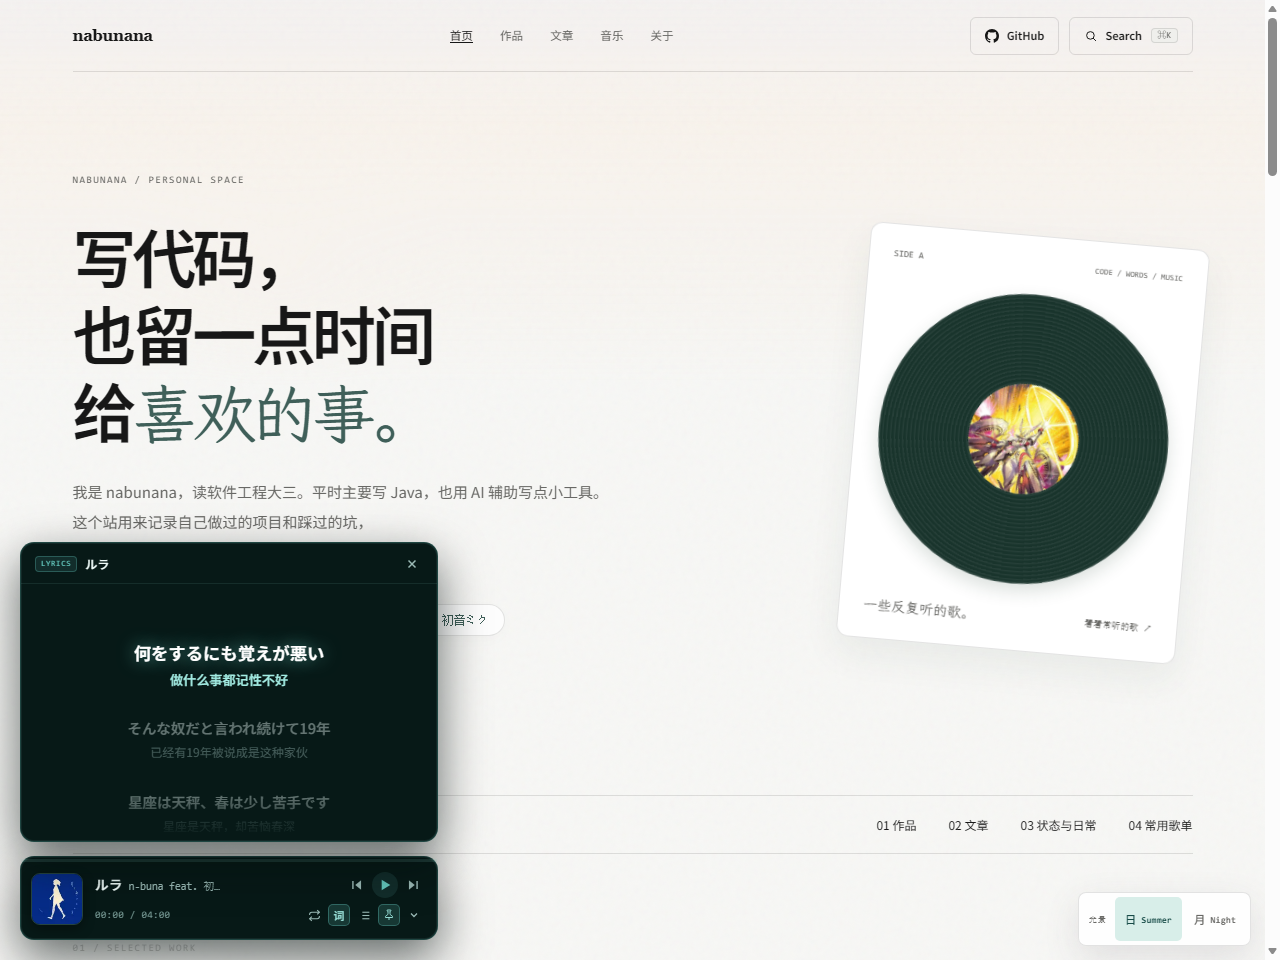
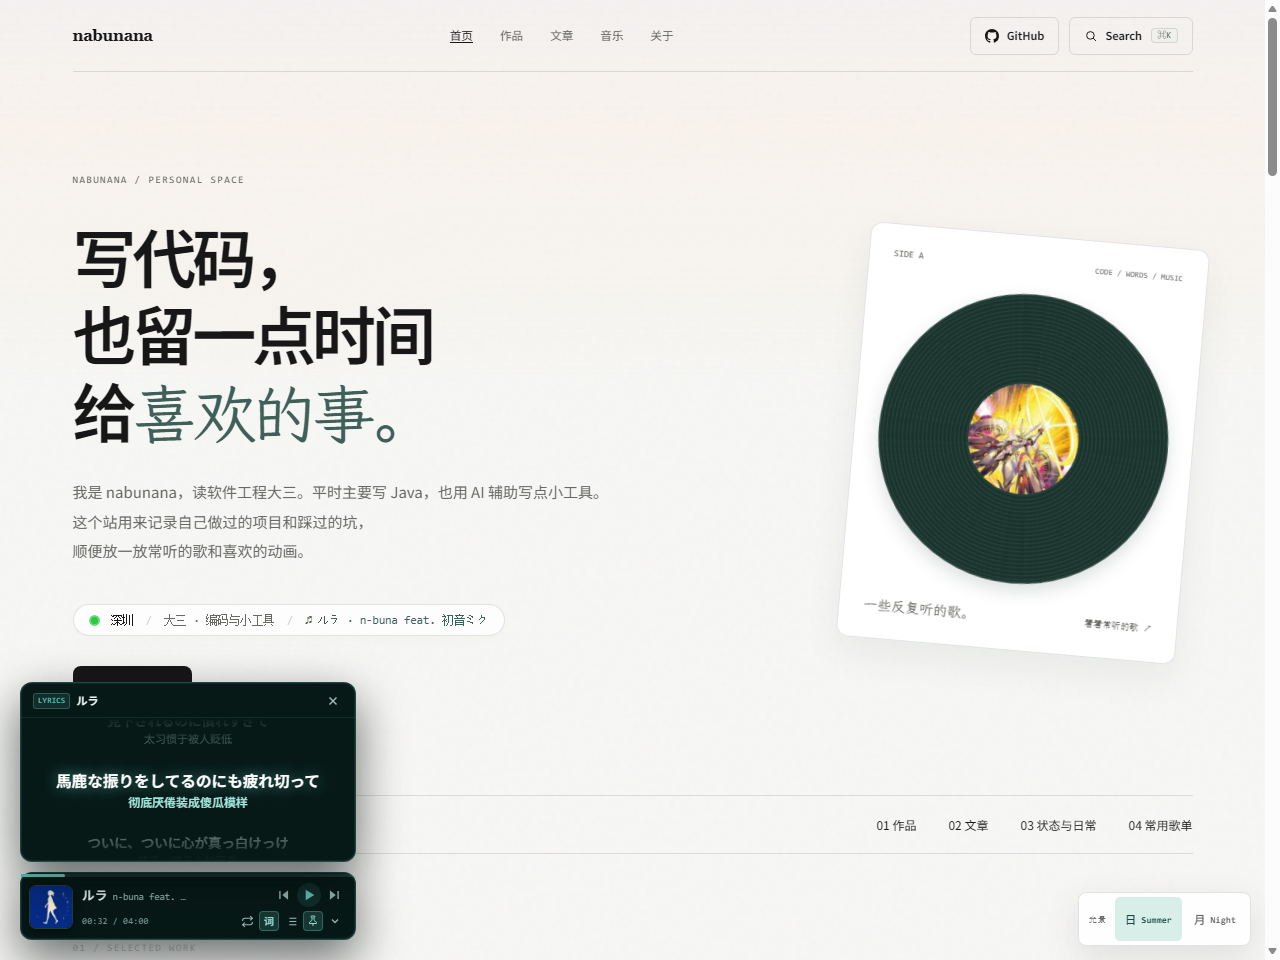
fix(player): apply plan A compact scale, fix lyric seek range issue and update decision docs

Changed region(s): [[0.0, 0.5625, 0.375, 1.0]]

diff --git a/docs/DECISIONS.md b/docs/DECISIONS.md
@@ -133,13 +133,15 @@
    - 彻底从 `package.json` 卸载 `aplayer` 及相关样式；
    - 采用单一原生 `<audio id="nabunana-audio-element">` 配合单例 `NabunanaPlayerController` 控制器，实现极简、高性能与秒级响应。
 2. **常驻磨砂玻璃微胶囊（Floating Glass Capsule）**：
-   - **折叠微态 (Mini Bar, 228×48px)**：圆角 9999px 微胶囊，展示 36×36 呼吸旋转黑胶封面、歌名与歌手、播放暂停键与展开箭头，不遮挡主页任何主体文字。
-   - **展开卡片态 (Expanded Card, 418×84px)**：现代双排布局，左侧 52×52 圆角封面（带打开曲库快捷入口）；上排为歌名（13.5px 粗体）与歌手，右侧为核心播放三键（上一首、青色微光播放键、下一首）；下排为时间指示（`00:00 / 04:00`），右侧为功能按键组（循环模式、词、曲库抽屉、固定图钉 Pin、收起箭头）；顶部带横跨全宽的细腻可拖拽进度条。
+   - **折叠微态 (Mini Bar, 196×42px)**：方案 A 精炼规格，圆角 9999px 微胶囊，展示 32×32 呼吸旋转黑胶封面、歌名（11.5px）与歌手（9.5px）、播放暂停键与展开箭头，常态极致克制，绝不遮挡主页任何主体文字。
+   - **展开卡片态 (Expanded Card, 336×68px)**：方案 A 紧凑规格，现代双排布局，左侧 44×44 圆角封面（带打开曲库快捷入口）；上排为歌名（12.5px 粗体）与歌手（9.5px），右侧为核心播放三键（上一首、青色微光播放键、下一首）；下排为时间指示（`00:00 / 04:00`，9px），右侧为功能按键组（循环模式、词、曲库抽屉、固定图钉 Pin、收起箭头）；顶部带横跨全宽的细腻可拖拽进度条。
 3. **浮动多行歌词视窗（Apple Music 风格）**：
-   - 浮动在播放器正上方（418×300px），采用 `#071917` 黑曜石深色背景与 32px 磨砂虚化，彻底隔离底层页面文字；
+   - 浮动在播放器正上方（336×180px，精炼聚焦 3 行），采用 `#071917` 黑曜石深色背景与 32px 磨砂虚化，彻底隔离底层页面文字；与底部卡片宽度严丝合缝；
    - 顶部与底部带有精致渐隐虚化遮罩（`mask-image`）；
-   - 当前句纯白加粗高亮（`16.5px`, `text-shadow: 0 0 16px rgba(100, 199, 189, 0.7)`），日中双语排版，译文清爽高亮；未激活行弱化景深（`opacity: 0.42`）；
-   - 支持**点击任意歌词行即时 Seek 跳转**并同步播放；智能居中平滑对齐，带有 3.5 秒手动滚动防打扰锁定。
+   - 当前句纯白加粗高亮（`15px`, `text-shadow: 0 0 14px rgba(100, 199, 189, 0.7)`），日中双语排版，译文清爽高亮（11.5px）；未激活行弱化景深（`opacity: 0.4`）；
+   - **点击任意歌词行即时跳转 (Seek)**：
+     - 支持点击歌词任意行精准跳转至对应时间点并平滑滚动高亮；
+     - **HTTP Range 防冲刷机制**：查明当静态服务缺少 `Accept-Ranges: bytes`（如简单 HTTP 服务器）时，浏览器请求媒体并执行 `currentTime = seekTime` 会被重定向重载音频导致回退为 0 秒。工程上提供了支持 HTTP 206 Partial Content 的本地服务，并在播放器客户端增加了防御性 seek（未起播时先触发 `play()` 等元数据稳定后在微任务中执行精确 seek），确保本地与生产云端（Nginx / CDN）均能 100% 精准秒级跳转。
 4. **半屏沉浸式全曲库选歌大表（Song Library Drawer）**：
    - 尺寸 `min(650px, calc(100vw - 36px)) × min(72vh, 640px)`，贴合现代化桌面音乐软件规格；
    - 顶部包含即时搜索框（支持歌名、歌手、专辑模糊搜索，实时更新计数与无结果兜底提示）；
